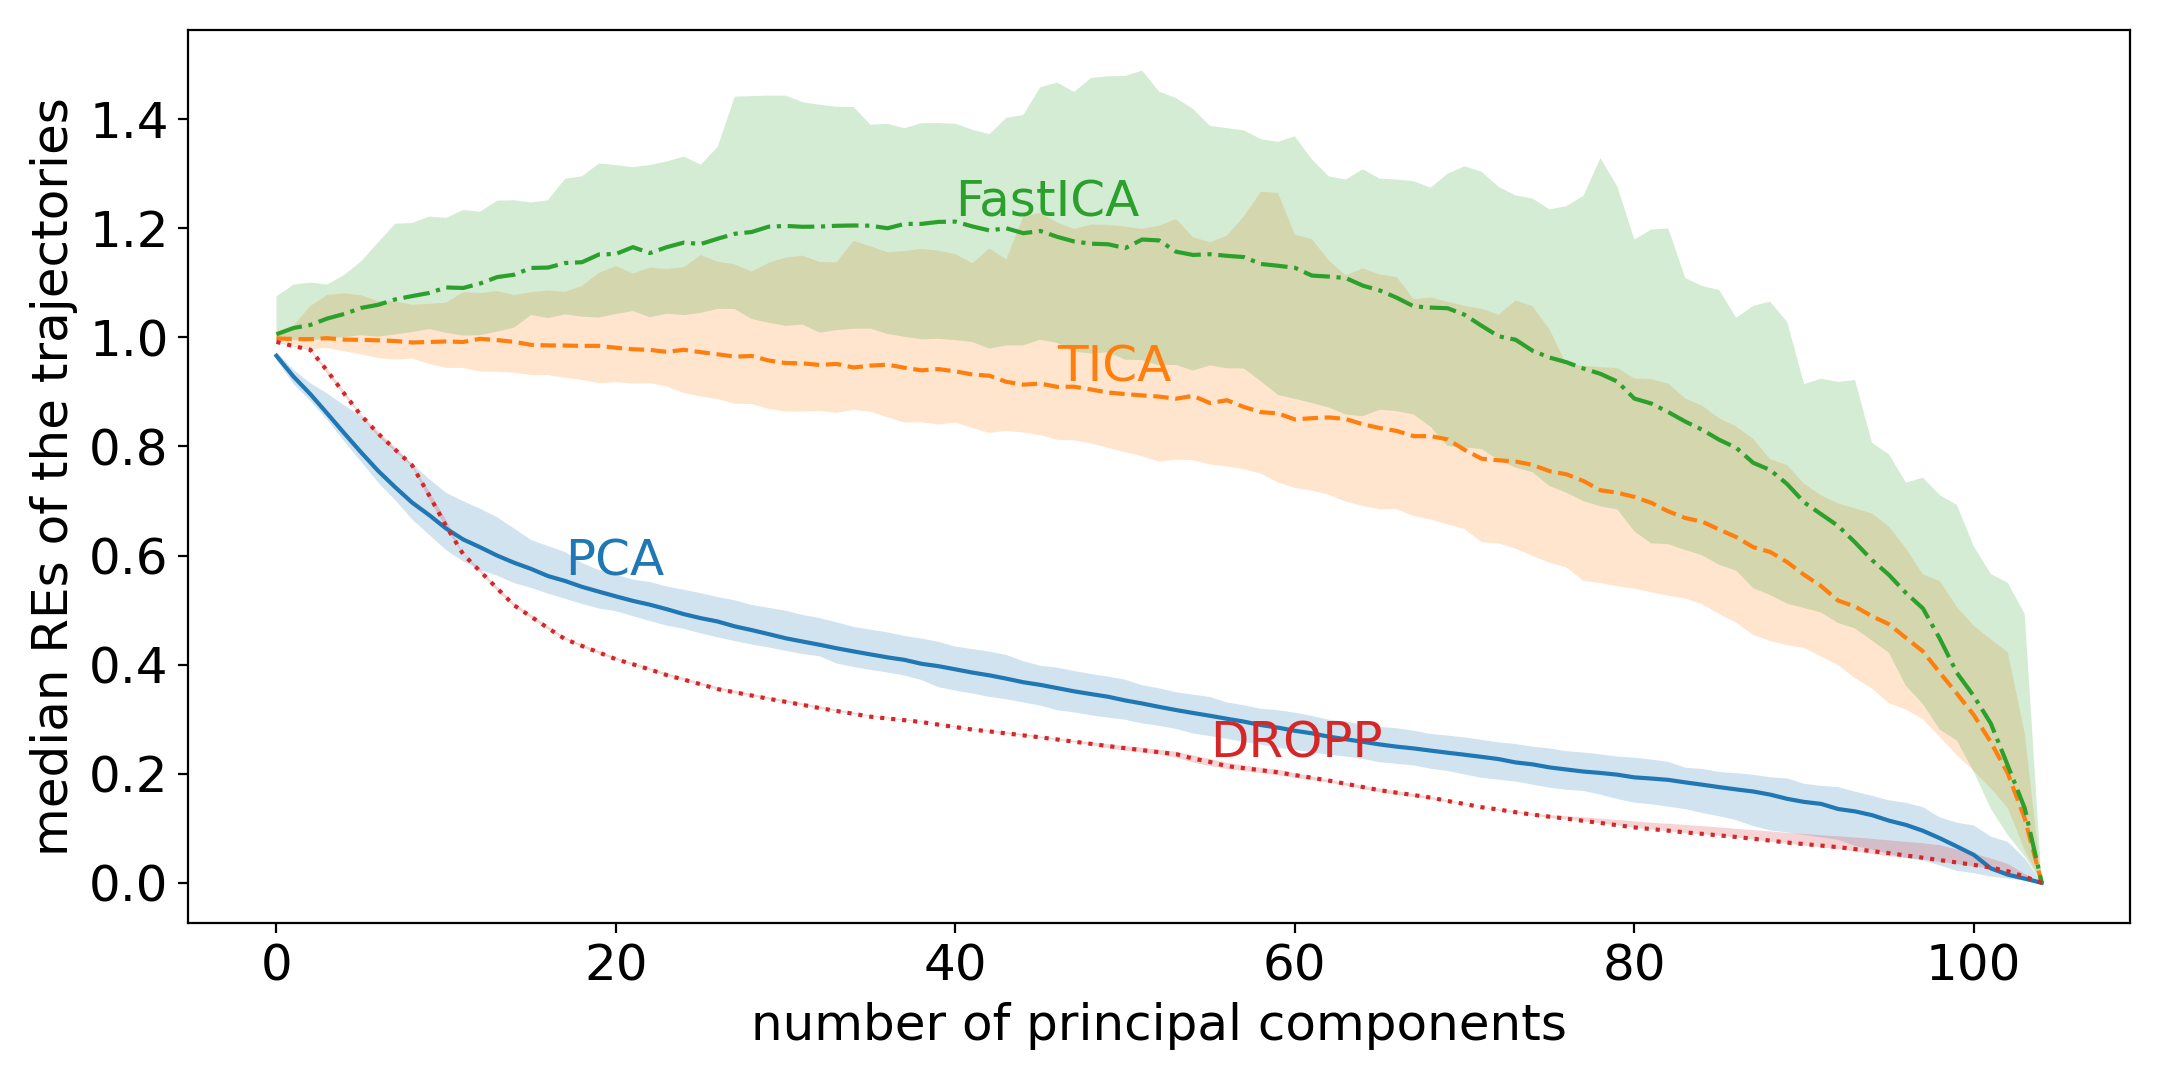
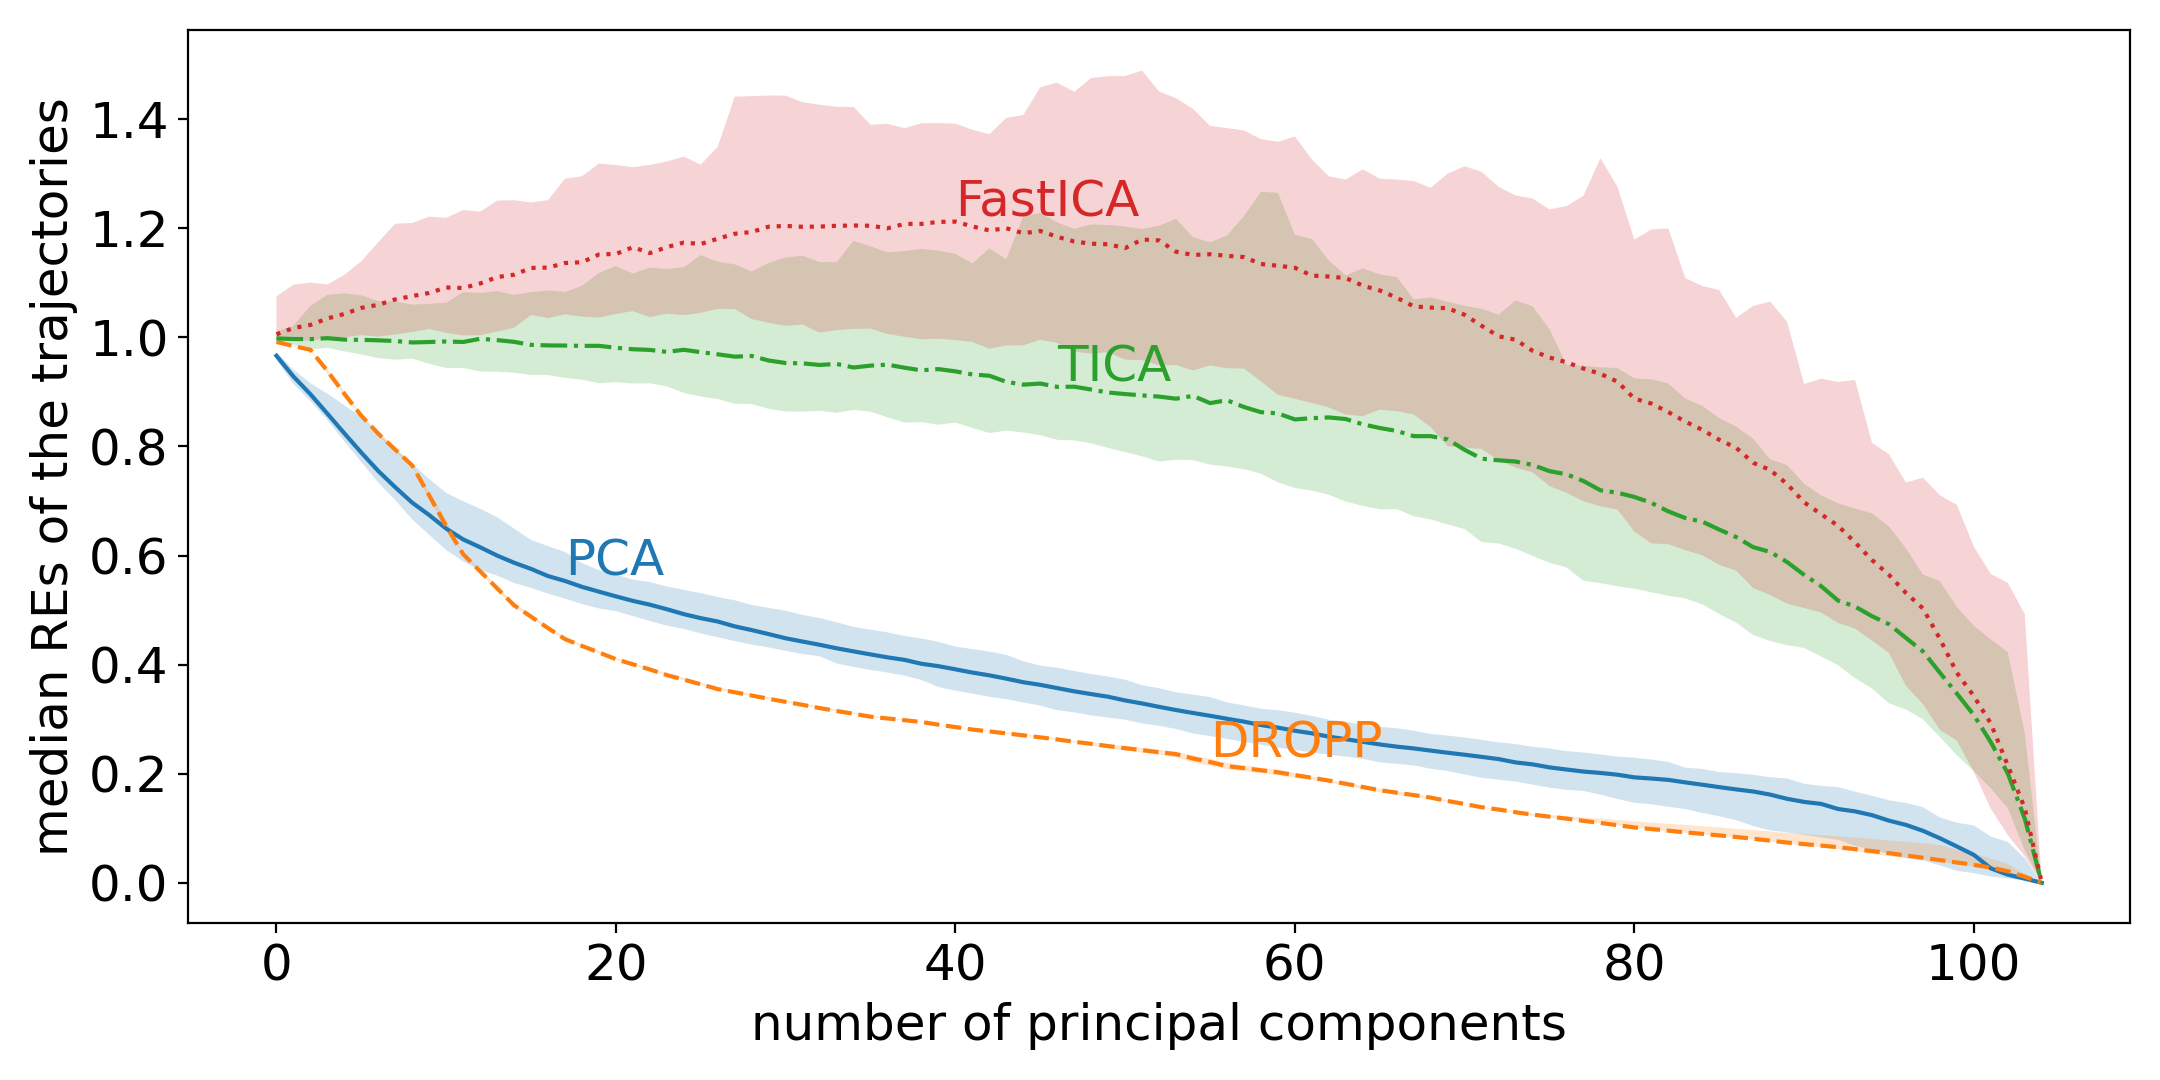
Change Plots and additional Loadings

diff --git a/plotter.py b/plotter.py
@@ -363,7 +363,7 @@ class ModelResultPlotter(MyPlotter):
     def plot_multi_projections(self, model_result_list_in_list, plot_type, center_plot=True, sub_parts=False,
                                show_model_properties=True):
         self.fig, self.axes = plt.subplots(len(model_result_list_in_list), len(model_result_list_in_list[DUMMY_ZERO]),
-                                           figsize=(1080 / 100, 1080 / 100), dpi=100, sharex='all', sharey='all')
+                                           figsize=(1080 / 200, 1080 / 200), dpi=200, sharex='all', sharey='all')
         for row_index, model_results in enumerate(model_result_list_in_list):
             if len(model_results) == 1:
                 self._plot_transformed_trajectory(self.axes[row_index], model_results[DUMMY_ZERO], color_map=plot_type,
@@ -492,7 +492,7 @@ class ArrayPlotter(MyPlotter):
             Some statistical numpy function
         :return:
         """
-        self.fig, self.axes = plt.subplots(1, 1, figsize=(1080 / 100, 1080 / 100), dpi=100)
+        self.fig, self.axes = plt.subplots(1, 1, figsize=(1080 / 200, 1080 / 200), dpi=200)
         self.axes.plot(x_index, gauss_fitted, '-', label=f'fit {fit_method}', linewidth=3.0)
         # self.axes.plot(x_index, gauss_fitted, ' ')
         self.axes.plot(x_index, ydata, '.', label='original data')
@@ -544,11 +544,20 @@ class ArrayPlotter(MyPlotter):
 
             if self.for_paper:
                 self._activate_legend = False
-                if key.startswith('DAANCCER'):
-                    xy = (55, 0.23)
-                    self.axes.annotate('DROPP', xy=xy, color=color, fontsize=self.fontsize)
+                hard_coded_function = 'FooToa-2f4k'
+                if key.startswith('DAANCCER') and hard_coded_function in ['FooToa-2f4k']:
+                    if hard_coded_function == 'FooToa-2f4k':
+                        xy = (55, 0.23)
+                    elif hard_coded_function == 'EV-sim-2f4k':
+                        xy = (60, 0.96)
+                    else:
+                        xy = (0, 0)
                 else:
                     xy = self._find_optional_annotating_coordinates(ndarray_data, ndarray_dict)
+
+                if key.startswith('DAANCCER'):
+                    self.axes.annotate('DROPP', xy=xy, color=color, fontsize=self.fontsize)
+                else:
                     self.axes.annotate(get_algorithm_name(key), xy=xy, color=color, fontsize=self.fontsize)
 
             else:
@@ -587,7 +596,7 @@ class ArrayPlotter(MyPlotter):
                           x_axis_values: np.ndarray,
                           line_values: np.ndarray,
                           error_band: dict = None):
-        self.fig, self.axes = plt.subplots(1, 1, figsize=(1080 / 100, 1080 / 100), dpi=100)
+        self.fig, self.axes = plt.subplots(1, 1, figsize=(2160 / 200, 1080 / 200), dpi=200)
 
         for model_name, model_scores in model_median_scores.items():
             # noinspection PyProtectedMember
@@ -595,18 +604,34 @@ class ArrayPlotter(MyPlotter):
             line_style = next(self.line_styles)
 
             for j, line_width in enumerate(np.log(line_values)):
-                self.axes.plot(x_axis_values, model_scores[:, j],
-                               color=color, linestyle=line_style, linewidth=line_width)
+                if line_values[j] != 25:
+                    self.axes.plot(x_axis_values, model_scores[:, j],
+                                   color=color, linestyle=line_style, linewidth=line_width)
+                    if j == 0:
+                        self.axes.plot([], [], color=color, linewidth=10, label=model_name)
 
-                if error_band is not None:  # TODO test, make function
-                    error_component_band = error_band[model_name][:, j, :].T
-                    if not (error_component_band.shape[DUMMY_ONE] == model_scores[:, j].shape[DUMMY_ZERO]):
-                        warnings.warn('Could not plot the error band, because the error band has the incorrect shape.')
-                    else:
-                        self.axes.fill_between(x_axis_values,
-                                               error_component_band[DUMMY_ZERO], error_component_band[DUMMY_ONE],
-                                               color=color, alpha=0.2*line_width)
+                    self.axes.annotate(line_values[j], xy=(x_axis_values[-1], model_scores[-1, j]-0.01),
+                                       color=color, fontsize=self.fontsize)
 
+                    if error_band is not None:  # TODO test, make function
+                        error_component_band = error_band[model_name][:, j, :].T
+                        if not (error_component_band.shape[DUMMY_ONE] == model_scores[:, j].shape[DUMMY_ZERO]):
+                            warnings.warn('Could not plot the error band, because the error band has the incorrect shape.')
+                        else:
+                            self.axes.fill_between(x_axis_values,
+                                                   error_component_band[DUMMY_ZERO], error_component_band[DUMMY_ONE],
+                                                   color=color, alpha=0.2*line_width)
+
+        if self.for_paper:
+            self.axes.set_xlim(0, x_axis_values[-1])
+            default_xticks = self.axes.get_xticks()
+            # Add 105 to the x-ticks
+            specific_xticks = [105] + list(default_xticks[1:])
+
+            # Set the x-ticks with both default and specific values
+            self.axes.set_xticks(specific_xticks)
+
+        self._activate_legend = True
         self._post_processing()
 
 

diff --git a/analyse.py b/analyse.py
@@ -307,9 +307,9 @@ class MultiTrajectoryAnalyser:
             all_sim_matrix = self._get_all_similarities_from_trajectory_ev_pairs(result_pairs)
 
             if merged_plot:
-                model_similarities[str(result_pairs[0][0][MODEL])] = np.mean(all_sim_matrix, axis=0)
-                similarity_error_bands[str(result_pairs[0][0][MODEL])] = np.vstack((np.min(all_sim_matrix, axis=0),
-                                                                                    np.max(all_sim_matrix, axis=0)))
+                model_similarities[str(result_pairs[0][0][MODEL])] = np.mean(all_sim_matrix, axis=0)[1:]
+                similarity_error_bands[str(result_pairs[0][0][MODEL])] = np.vstack(
+                    (np.min(all_sim_matrix, axis=0), np.max(all_sim_matrix, axis=0)))[:, 1:]
             else:
                 if pc_nr_list is None:
                     ArrayPlotter(
@@ -337,8 +337,11 @@ class MultiTrajectoryAnalyser:
                             for_paper=self.params[PLOT_FOR_PAPER]
                         ).matrix_plot(tria)
         if merged_plot:
-            AnalyseResultsSaver(self.params[TRAJECTORY_NAME], enable_save=self.params[ENABLE_SAVE]).save_to_npz(
-                model_similarities, 'eigenvector_similarities')
+            saver = AnalyseResultsSaver(self.params[TRAJECTORY_NAME],
+                                        enable_save=self.params[ENABLE_SAVE],
+                                        folder_suffix='_EV-similarities')
+            saver.save_to_npz(model_similarities, 'eigenvector_similarities')
+            saver.save_to_npz(similarity_error_bands, 'error_bands_similarity')
             ArrayPlotter(
                 interactive=self.params[INTERACTIVE],
                 title_prefix=f'Eigenvector Similarities',
@@ -762,7 +765,7 @@ class MultiSubTrajectoryAnalyser(MultiTrajectoryAnalyser):
             folder_suffix='_FooToaTws'
         )
         max_time_steps = self.trajectories[DUMMY_ZERO].dim[TIME_FRAMES]  # e.g. 10000
-        time_steps = np.geomspace(self.trajectories[DUMMY_ZERO].max_components, max_time_steps, num=10, dtype=int)
+        time_steps = np.geomspace(self.trajectories[DUMMY_ZERO].max_components, max_time_steps, num=15, dtype=int)
         component_list = np.asarray([2, 5, 10, 25, 50])
         saver.save_to_npz({'time_steps': time_steps}, 'time_steps_FooToaTws')
         saver.save_to_npz({'component_list': component_list}, 'component_list_FooToaTws')

diff --git a/load_results.py b/load_results.py
@@ -1,4 +1,5 @@
 import os
+from collections import OrderedDict
 from pathlib import Path
 
 import numpy as np
@@ -70,6 +71,8 @@ def load_analyse_results_dict(result_load_files: list, kwargs: dict):
 def load_re_over_component_span(directory_root: str, kwargs: dict):
     npzs = AnalyseResultLoader(kwargs[PARAMS][TRAJECTORY_NAME]).load_npz_files_in_directory(directory_root)
     plot_dict = next(v for k, v in npzs.items() if 'median' in k)
+    a = ['PCA', 'DAANCCER', 'TICA', 'FastICA']
+    plot_dict = OrderedDict((key, plot_dict[key]) for key in a)
     error_band = next(v for k, v in npzs.items() if 'error_bands' in k)
     from_other_traj = True
     ArrayPlotter(
@@ -97,3 +100,17 @@ def load_foo_toa_tws(directory_root: str, kwargs: dict):
         y_label='Median RE',
         for_paper=kwargs[PARAMS][PLOT_FOR_PAPER]
     ).plot_matrix_in_2d(plot_dict, time_steps['time_steps'], component_list['component_list'], error_band)
+
+
+def load_eigenvector_similarities(directory_root: str, kwargs: dict):
+    npzs = AnalyseResultLoader(kwargs[PARAMS][TRAJECTORY_NAME]).load_npz_files_in_directory(directory_root)
+    plot_dict = next(v for k, v in npzs.items() if 'eigenvector' in k)
+    error_band = next(v for k, v in npzs.items() if 'error_bands' in k)
+    ArrayPlotter(
+        interactive=kwargs[PARAMS][INTERACTIVE],
+        title_prefix=f'Eigenvector Similarities',
+        x_label='number of principal components',
+        y_label='median cosine similarity value',
+        # y_range=(0, 1),
+        for_paper=kwargs[PARAMS][PLOT_FOR_PAPER]
+    ).plot_merged_2ds(plot_dict, error_band=error_band)

diff --git a/main.py b/main.py
@@ -168,6 +168,8 @@ def load_directory(directory_root: str, kwargs: dict):
         load_results.load_list_of_dicts(sub_dir=directory_root, params=kwargs[PARAMS])
     elif run_option == LOAD_FOOTOA_TWS:
         load_results.load_foo_toa_tws(directory_root, kwargs)
+    elif run_option == LOAD_EIGENVECTOR_SIMILARITIES:
+        load_results.load_eigenvector_similarities(directory_root, kwargs)
     else:
         raise InvalidRunningOptionError(f'The loading directory is set to: {directory_root},\n'
                                         f'but the run_option: `{run_option}` in the (json) configuration '

diff --git a/utils/param_keys/run_options.py b/utils/param_keys/run_options.py
@@ -12,6 +12,7 @@ TRAJECTORY_SUBSET_ANALYSIS = 'trajectory_subset_analysis'
 LOAD_ANALYSE_RESULTS_DICT = 'load_analyse_result_dict'
 LOAD_LIST_OF_DICTS = 'load_list_of_dicts'
 LOAD_FOOTOA_TWS = 'load_footoa_tws'
+LOAD_EIGENVECTOR_SIMILARITIES = 'load_eigenvector_similarities'
 LOAD_RE_OVER_COMPONENT_SPAN = 'load_re_over_component_span'
 
 # Multi trajectory analyse
